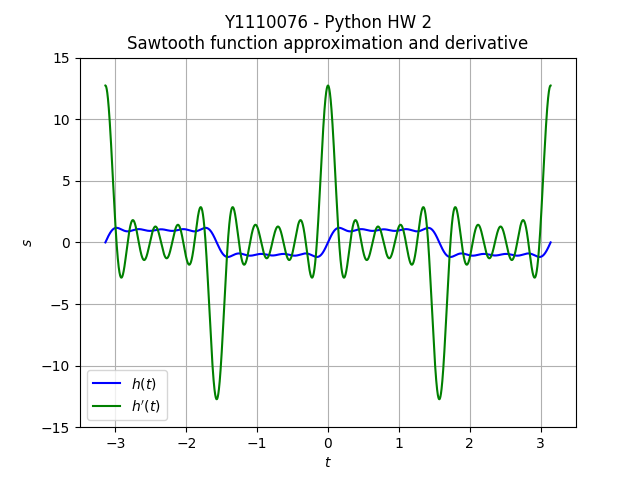
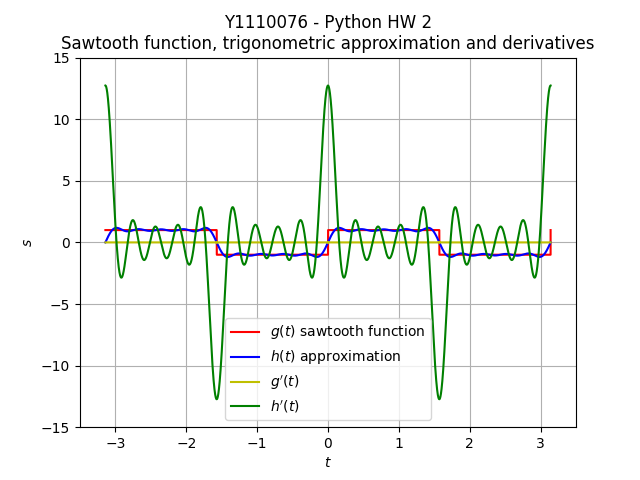
Update HW2 submission
I finally chose to submit code based on HW2_2-3-2.py instead of
HW2_2-3-3.py. That submission was at 2022-11-13 14:47:42.

diff --git a/HW2/HW2_submission.py b/HW2/HW2_submission.py
@@ -3,11 +3,28 @@ import pylab
 PI = pylab.pi
 
 
+def g(t: pylab.ndarray) -> pylab.ndarray:
+
+    def g_func(x: float):
+        return 1 if x // PI <= x / PI <= x // PI + 0.5 else -1
+
+    return pylab.array([g_func(x) for x in t])
+
+
+def g_prime(t: pylab.ndarray, d: float):
+
+    def check_inf(x: float):
+        return pylab.inf if abs(x) > 1e4 else x
+
+    derivative = (g(t + d) - g(t)) / d
+    return pylab.array([check_inf(x) for x in derivative])
+
+
 def h(t: pylab.ndarray) -> pylab.ndarray:
-    return 1.2732 * pylab.sin(2 * t) +\
-           0.4244 * pylab.sin(6 * t) +\
-           0.25465 * pylab.sin(10 * t) +\
-           0.18189 * pylab.sin(14 * t) +\
+    return 1.2732 * pylab.sin(2 * t) + \
+           0.4244 * pylab.sin(6 * t) + \
+           0.25465 * pylab.sin(10 * t) + \
+           0.18189 * pylab.sin(14 * t) + \
            0.14147 * pylab.sin(18 * t)
 
 
@@ -18,9 +35,14 @@ def h_prime(x: pylab.ndarray, d: float):
 def main():
     a, b, n = -PI, PI, 50000
     d = (b - a) / (n - 1)
-    xs = pylab.linspace(a, b, n, endpoint=True)
 
-    pylab.plot(xs, h(xs), label=r'$h(t)$', color='b')
+    xs = pylab.linspace(a, b, n, endpoint=True)
+    # print(xs)
+    # print(g(xs))
+
+    pylab.plot(xs, g(xs), label=r'$g(t)$ sawtooth function', color='r')
+    pylab.plot(xs, h(xs), label=r'$h(t)$ approximation', color='b')
+    pylab.plot(xs, g_prime(xs, d), label=r"$g'(t)$", color='y')
     pylab.plot(xs, h_prime(xs, d), label=r"$h'(t)$", color='g')
 
     pylab.grid()
@@ -29,8 +51,9 @@ def main():
     pylab.ylabel('$s$')
     pylab.axis((-3.5, 3.5, -15, 15))
 
-    pylab.title('Y1110076 - Python HW 2\n'
-                'Sawtooth function approximation and derivative')
+    pylab.title(
+        'Y1110076 - Python HW 2\n'
+        'Sawtooth function, trigonometric approximation and derivatives')
     pylab.savefig('HW2.png')
     pylab.show()
 
